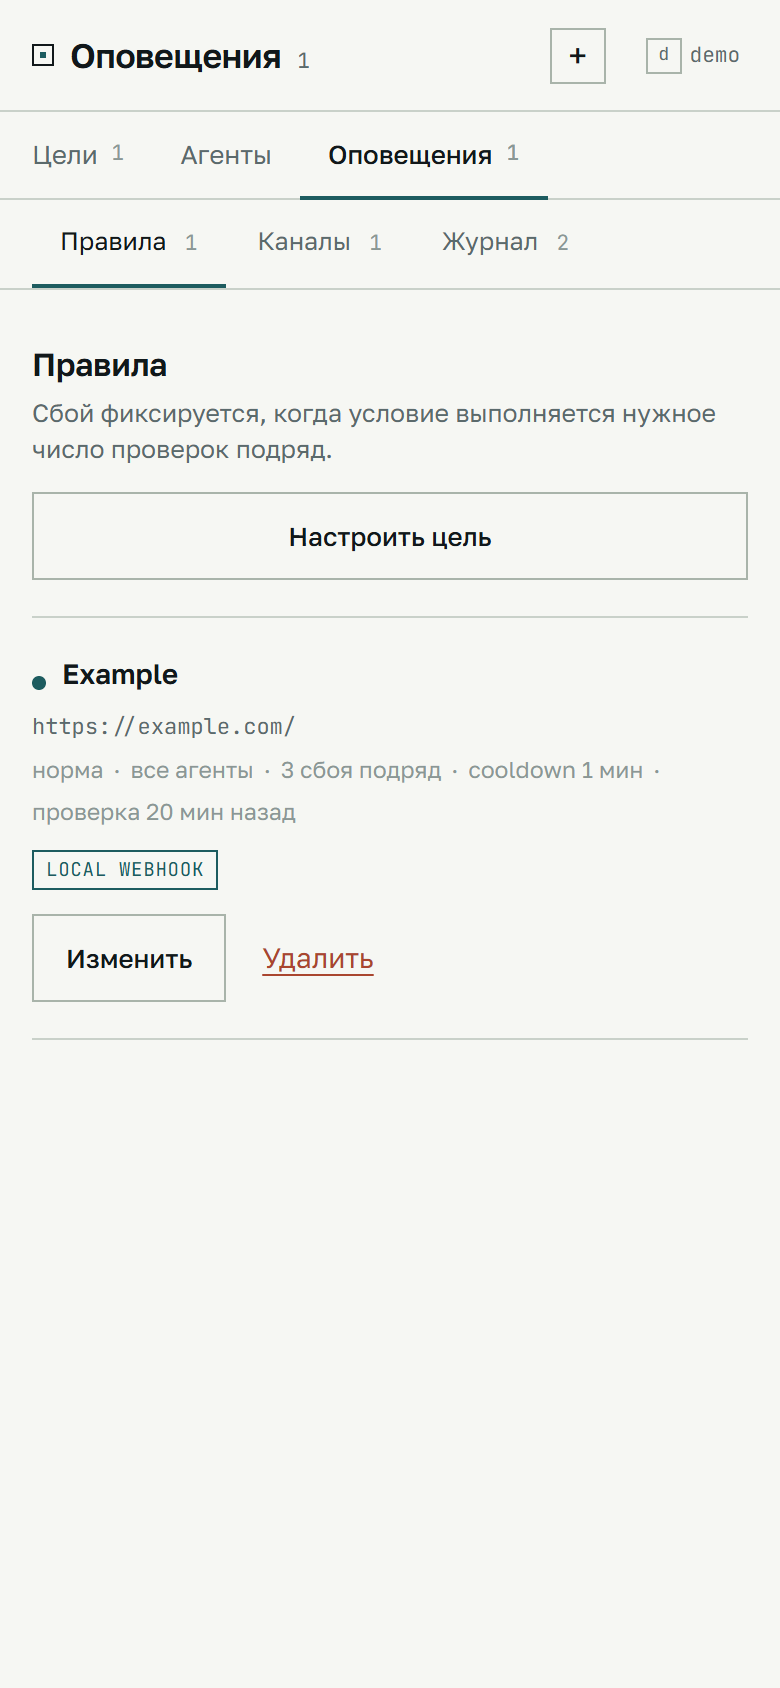
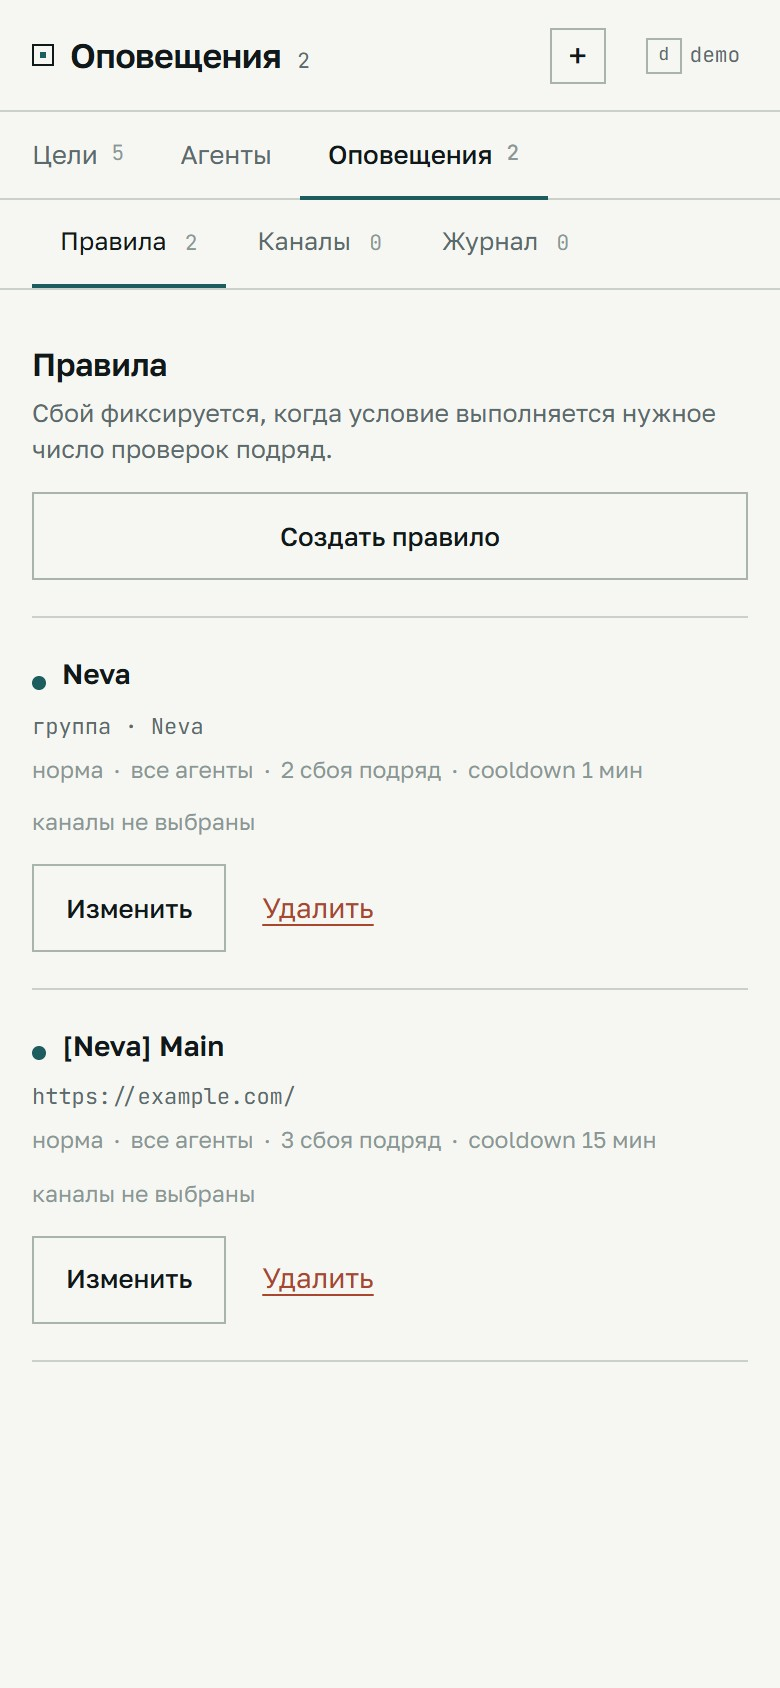
chore(release): подготовить 0.2.1
Версия поднята до 0.2.1, README на английском и русском описывает группы, теги и групповые правила. Скриншоты пересняты на 1440 и 390.

diff --git a/README.ru.md b/README.ru.md
@@ -14,7 +14,7 @@ Pingushka выполняет проверки HTTP(S), TCP-портов и ICMP 
 
 ## Статус
 
-**v0.2.0 — оповещения.** Hub, хранилище PostgreSQL, REST API с авторизацией, WebSocket-протокол, Linux-агент, SPA-дашборд, Docker-образ, релизы и установщик `install.sh` реализованы и используются в живом развёртывании. В дашборде появились правила оповещений, каналы доставки и журнал отправок.
+**v0.2.1 — группы и теги.** Hub, хранилище PostgreSQL, REST API с авторизацией, WebSocket-протокол, Linux-агент, SPA-дашборд, Docker-образ, релизы и установщик `install.sh` реализованы и используются в живом развёртывании. Цели теперь можно объединять в группы, помечать тегами, сортировать, фильтровать и редактировать массово; правила оповещений работают для цели или для всей группы.
 
 Интерфейс дашборда пока на русском.
 
@@ -33,6 +33,8 @@ Pingushka выполняет проверки HTTP(S), TCP-портов и ICMP 
 - **Multi-arch образы** — `linux/amd64` и `linux/arm64`, сборка на нативных раннерах GitHub.
 - **Оповещения** — Telegram, произвольный webhook и SMTP-письма. У правила есть порог сбоев, порог восстановления и cooldown; на инцидент отправляется ровно один `down` и один `recovered`.
 - **Журнал доставки** — секреты каналов шифруются, отправка идёт через outbox с ретраями, статус каждого события виден в дашборде.
+- **Группы и теги** — плоский список групп, до 10 тегов на цель, менеджер групп, фильтр по тегам, сортировка, сворачиваемые группы и массовое изменение группы/тегов. Группы и теги не меняют проверки и не уходят агентам.
+- **Групповые правила оповещений** — правило может покрывать всю группу; оно работает как значение по умолчанию для целей без своего правила и поднимает отдельный групповой инцидент.
 
 ## Скриншоты
 
@@ -54,7 +56,7 @@ cd pingushka
 cp .env.example .env
 ```
 
-Задайте надёжный `POSTGRES_PASSWORD` в `.env`, сгенерируйте `ALERT_SECRET_KEY` командой `openssl rand -hex 32`, оставьте `PUBLIC_URL=http://127.0.0.1:8080`, `COOKIE_SECURE=false` и выберите релиз, например `PINGUSHKA_VERSION=0.2.0`.
+Задайте надёжный `POSTGRES_PASSWORD` в `.env`, сгенерируйте `ALERT_SECRET_KEY` командой `openssl rand -hex 32`, оставьте `PUBLIC_URL=http://127.0.0.1:8080`, `COOKIE_SECURE=false` и выберите релиз, например `PINGUSHKA_VERSION=0.2.1`.
 
 ```sh
 docker compose pull postgres hub
@@ -69,7 +71,7 @@ docker compose up -d --no-build postgres hub
 
 ```sh
 curl -fsSL https://raw.githubusercontent.com/vasilchenkome/pingushka/main/install.sh \
-  | sudo sh -s -- --hub https://monitor.example.com --enrollment-token <токен> --version v0.2.0
+  | sudo sh -s -- --hub https://monitor.example.com --enrollment-token <токен> --version v0.2.1
 ```
 
 Установщик:
@@ -84,7 +86,7 @@ curl -fsSL https://raw.githubusercontent.com/vasilchenkome/pingushka/main/instal
 
 Установщик также включает ежедневный `pingushka-agent-update.timer`. Он проверяет последний стабильный релиз со случайной задержкой, сверяет контрольную сумму и атомарно заменяет бинарь. Если служба не поднялась, возвращается предыдущий бинарь. Отключить: `--no-auto-update`; логи: `journalctl -u pingushka-agent-update -f`.
 
-`--version v0.2.0` фиксирует релиз; без него ставится последний.
+`--version v0.2.1` фиксирует релиз; без него ставится последний.
 
 ### Удаление агента
 
@@ -123,7 +125,7 @@ ALERT_SECRET_KEY=<openssl rand -hex 32>
 PUBLIC_URL=https://monitor.example.com
 COOKIE_SECURE=true
 DOMAIN=monitor.example.com
-PINGUSHKA_VERSION=0.2.0
+PINGUSHKA_VERSION=0.2.1
 ```
 
 ```sh
@@ -209,8 +211,8 @@ Vite отдаёт <http://127.0.0.1:5173> и проксирует `/api` на `1
 
 ## Релизы и образы
 
-- Образ Hub: `ghcr.io/vasilchenkome/pingushka-hub:0.2.0` (также `0.2`, `latest`, `main`, `sha-*`), multi-arch.
-- Образ агента: `ghcr.io/vasilchenkome/pingushka-agent:0.2.0`, multi-arch, для контейнерных проб.
+- Образ Hub: `ghcr.io/vasilchenkome/pingushka-hub:0.2.1` (также `0.2`, `latest`, `main`, `sha-*`), multi-arch.
+- Образ агента: `ghcr.io/vasilchenkome/pingushka-agent:0.2.1`, multi-arch, для контейнерных проб.
 - Релизные бинари: <https://github.com/vasilchenkome/pingushka/releases>.
 - Workflow `Image` публикует образы при пуше в `main` и по тегам `v*`.
 - Workflow `Release` собирает Hub и агентов с `SHA256SUMS` для `install.sh`.

diff --git a/README.md b/README.md
@@ -14,7 +14,7 @@ Pingushka runs HTTP(S), TCP-port and ICMP checks from agents in different networ
 
 ## Status
 
-**v0.2.0 — alerts.** The Hub, PostgreSQL storage, authenticated REST API, WebSocket protocol, Linux agent, SPA dashboard, Docker image, releases and the `install.sh` installer are implemented and used in a live deployment. The dashboard now includes alert rules, delivery channels and a delivery journal.
+**v0.2.1 — target groups and tags.** The Hub, PostgreSQL storage, authenticated REST API, WebSocket protocol, Linux agent, SPA dashboard, Docker image, releases and the `install.sh` installer are implemented and used in a live deployment. Targets can now be organised into groups, tagged, sorted, filtered and edited in bulk; alert rules work per target or per group.
 
 The dashboard UI is currently in Russian.
 
@@ -33,6 +33,8 @@ The dashboard UI is currently in Russian.
 - **Multi-arch images** — `linux/amd64` and `linux/arm64`, built on native GitHub runners.
 - **Alerts** — Telegram, generic webhooks and SMTP email. Rules use a failure threshold, a recovery threshold and a cooldown; each incident produces exactly one `down` and one `recovered` message.
 - **Delivery journal** — encrypted channel secrets, an outbox with retries and a per-event status visible in the dashboard.
+- **Groups and tags** — a flat group tree, up to 10 tags per target, a group manager, tag filters, sorting, collapsible groups and bulk group/tag edits. Groups and tags never change probe behaviour or reach agents.
+- **Group alert rules** — a rule can cover a whole group; it acts as the default for targets without their own rule and raises a separate group incident.
 
 ## Screenshots
 
@@ -54,7 +56,7 @@ cd pingushka
 cp .env.example .env
 ```
 
-Set a strong `POSTGRES_PASSWORD` in `.env`, generate `ALERT_SECRET_KEY` with `openssl rand -hex 32`, keep `PUBLIC_URL=http://127.0.0.1:8080`, `COOKIE_SECURE=false` and choose a release, for example `PINGUSHKA_VERSION=0.2.0`.
+Set a strong `POSTGRES_PASSWORD` in `.env`, generate `ALERT_SECRET_KEY` with `openssl rand -hex 32`, keep `PUBLIC_URL=http://127.0.0.1:8080`, `COOKIE_SECURE=false` and choose a release, for example `PINGUSHKA_VERSION=0.2.1`.
 
 ```sh
 docker compose pull postgres hub
@@ -69,7 +71,7 @@ Create an agent in **Agents** and run the generated command on a Linux host. Eac
 
 ```sh
 curl -fsSL https://raw.githubusercontent.com/vasilchenkome/pingushka/main/install.sh \
-  | sudo sh -s -- --hub https://monitor.example.com --enrollment-token <token> --version v0.2.0
+  | sudo sh -s -- --hub https://monitor.example.com --enrollment-token <token> --version v0.2.1
 ```
 
 The installer:
@@ -84,7 +86,7 @@ Results are buffered in `/var/lib/pingushka/buffer.jsonl`. Logs: `journalctl -u 
 
 The installer also enables a daily `pingushka-agent-update.timer`. It checks the latest stable release with a randomized delay, verifies the checksum and replaces the binary atomically. If the service does not come back, the previous binary is restored. Disable it with `--no-auto-update`; logs: `journalctl -u pingushka-agent-update -f`.
 
-Use `--version v0.2.0` to pin a release; omit it to install the latest one.
+Use `--version v0.2.1` to pin a release; omit it to install the latest one.
 
 ### Uninstall an agent
 
@@ -123,7 +125,7 @@ ALERT_SECRET_KEY=<openssl rand -hex 32>
 PUBLIC_URL=https://monitor.example.com
 COOKIE_SECURE=true
 DOMAIN=monitor.example.com
-PINGUSHKA_VERSION=0.2.0
+PINGUSHKA_VERSION=0.2.1
 ```
 
 ```sh
@@ -209,8 +211,8 @@ The local PostgreSQL port is bound to `127.0.0.1`. `.env` is ignored by Git. `do
 
 ## Releases and images
 
-- Hub image: `ghcr.io/vasilchenkome/pingushka-hub:0.2.0` (also `0.2`, `latest`, `main`, `sha-*`), multi-arch.
-- Agent image: `ghcr.io/vasilchenkome/pingushka-agent:0.2.0`, multi-arch, for container-based probes.
+- Hub image: `ghcr.io/vasilchenkome/pingushka-hub:0.2.1` (also `0.2`, `latest`, `main`, `sha-*`), multi-arch.
+- Agent image: `ghcr.io/vasilchenkome/pingushka-agent:0.2.1`, multi-arch, for container-based probes.
 - Release binaries: <https://github.com/vasilchenkome/pingushka/releases>.
 - The `Image` workflow publishes on pushes to `main` and on `v*` tags.
 - The `Release` workflow builds the Hub and agent binaries with `SHA256SUMS` for `install.sh`.
